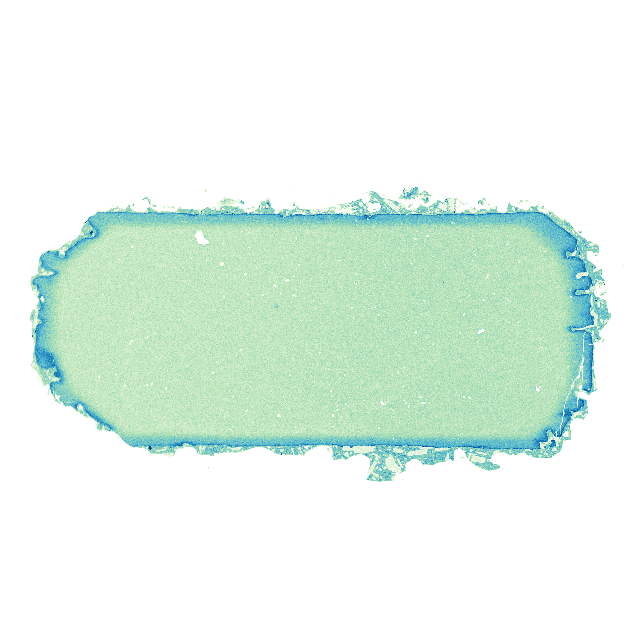
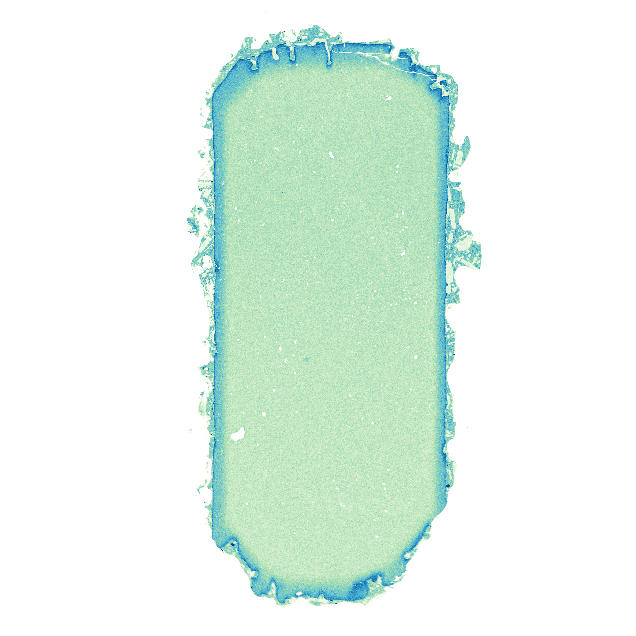
update

diff --git a/projects.html b/projects.html
@@ -153,7 +153,7 @@
 
       <div class="theme-column">
         <a href="https://wjdaniel.github.io/home/theme2" class="image-link">
-          <img class="theme-image" src="./images/IMG_2.jpg" alt="Theme 2 Visual">
+          <img class="theme-image" src="./images/Picture1.jpg" alt="Theme 2 Visual">
         </a>
         <h2 class="theme-subtitle">Volatile Recycling at Subduction Zones</h2>
         <p class="theme-text">
@@ -163,7 +163,7 @@
 
       <div class="theme-column">
         <a href="https://wjdaniel.github.io/home/theme3" class="image-link">
-          <img class="theme-image" src="./images/IMG_3.jpg" alt="Theme 3 Visual">
+          <img class="theme-image" src="./images/IMG_2558.jpg" alt="Theme 3 Visual">
         </a>
         <h2 class="theme-subtitle">High-PT Experiments</h2>
         <p class="theme-text">
